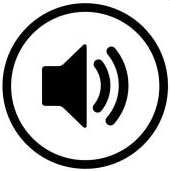
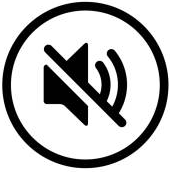
audio

diff --git a/index.html b/index.html
@@ -15,27 +15,8 @@
 		<script type="text/javascript" src="./scrits/enemy.js"></script>
 		<script type="text/javascript" src="./scrits/player.js"></script>
 		<progress id="health" value="10" max="100"></progress>
-		<!-- <h1 id="found"></h1>-->
-		<button id="playButton">Play Audio</button>
+		<button id="playButton"><img id="muter" src="./assets/Sound_Muter.png" alt="sound"></button>
 		<audio id="myaudio" src="./assets/Монеточка-Нимфоманка.mp3" loop="loop"></audio>
-		<script> 
-			var audio = document.getElementById("myaudio");
-				var playButton = document.getElementById("playButton");
-				let count = 0;
-				playButton.addEventListener("click", function() {
-					if (count == 0) {
-						audio.play();
-						console.log("Audio played");
-						count++
-						console.log(count)
-					} else{
-						audio.pause();
-                		audio.currentTime = 0; // Reset the audio to the beginning
-               			 console.log("Audio stopped");
-						 count = 0;
-					}
-
-				});
-		</script>
+		<script src="./scrits/audio.js"></script>
 	</body>
 </html>

diff --git a/scrits/audio.js b/scrits/audio.js
@@ -1,0 +1,19 @@
+var audio = document.getElementById("myaudio");
+var playButton = document.getElementById("playButton");
+let countAudio = 0;
+
+playButton.addEventListener("click", function() {
+    if (countAudio === 0) {
+        audio.play();
+        console.log("Audio played");
+        countAudio++;
+        console.log(countAudio);
+        document.getElementById("muter").src = "./assets/Sound1.png";
+    } else {
+        audio.pause();
+        audio.currentTime = 0; // Reset the audio to the beginning
+        console.log("Audio stopped");
+        countAudio = 0;
+        document.getElementById("muter").src = "./assets/Sound_Muter.png";
+    }
+});

diff --git a/style/style.css b/style/style.css
@@ -27,3 +27,19 @@ progress {
 	left: 1500px;
 	height: 20px;
 }
+#playButton {
+	position: absolute;
+	top:40px;
+	left: 200px;
+	background-color: none;
+	border:none;
+	
+}
+#muter {
+
+	height: 32px;
+	width:32px;
+}
+audio {
+	height: 0px;
+}
